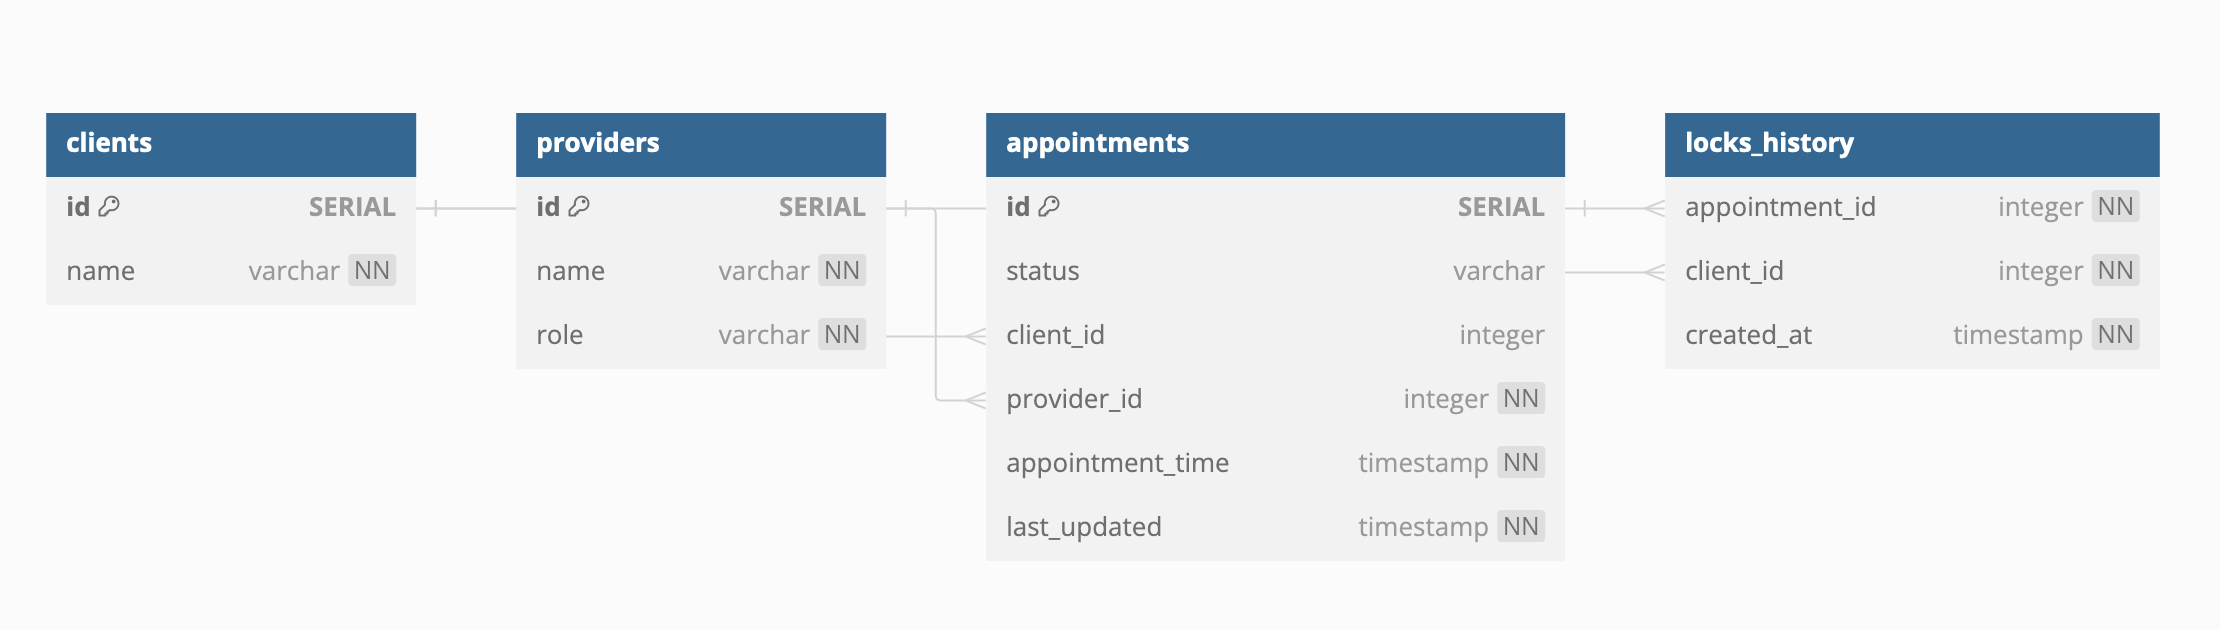
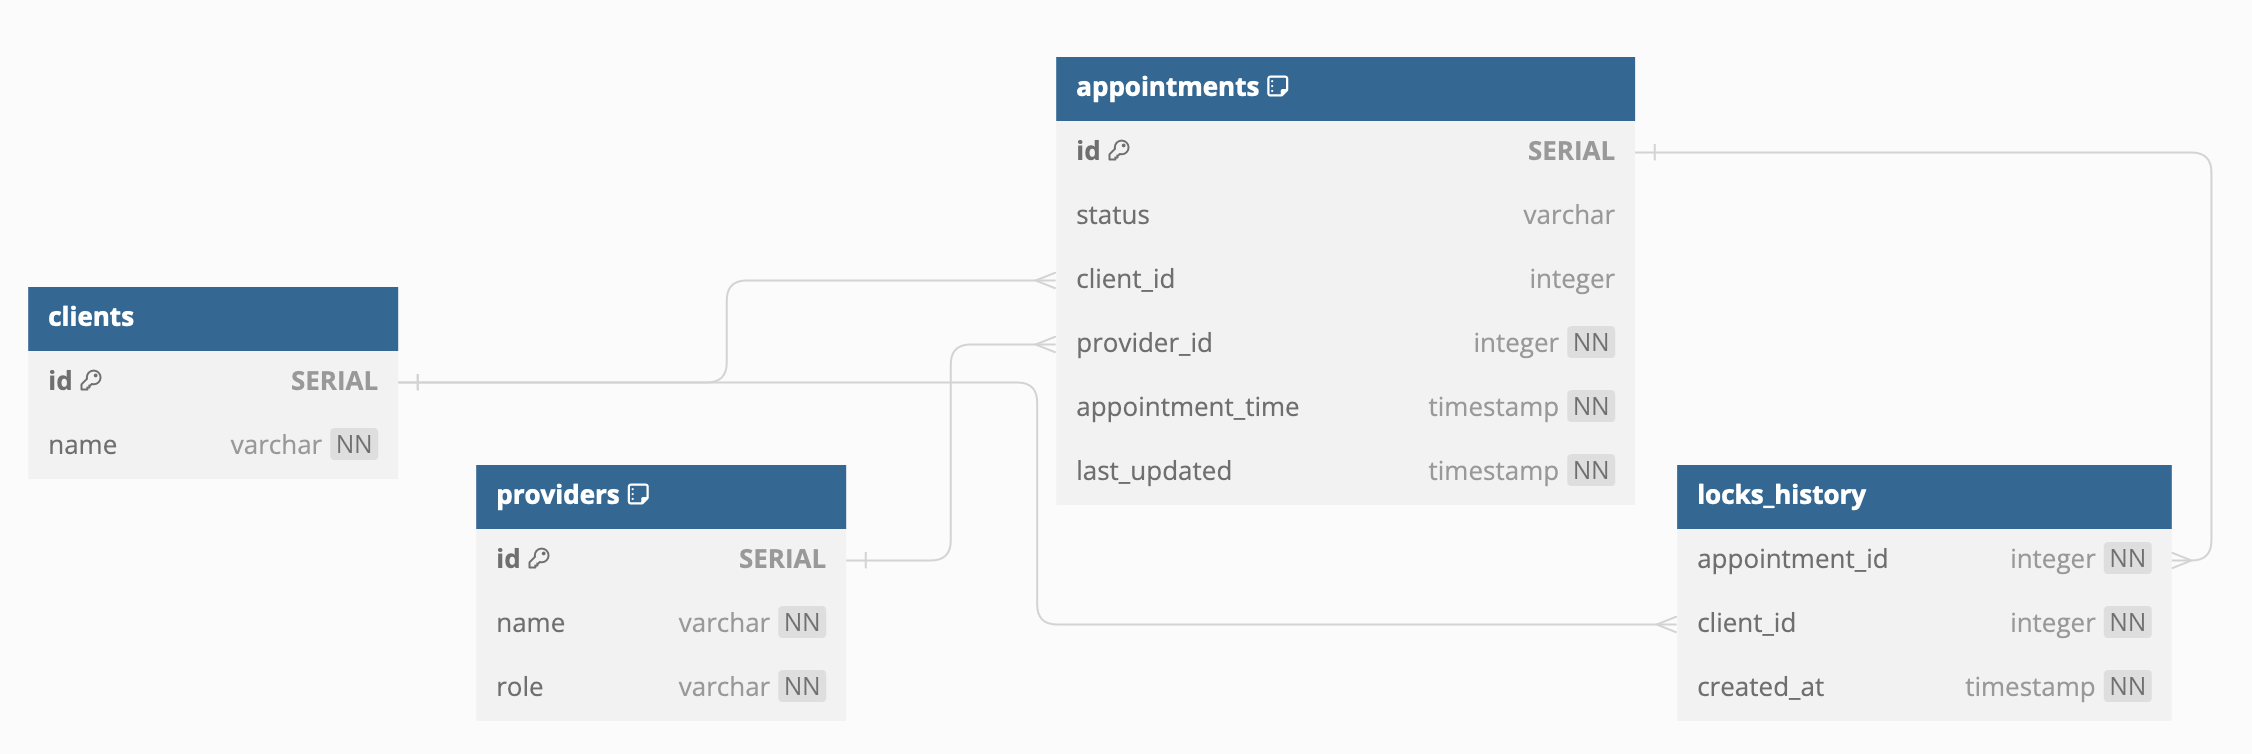
Update schema screenshot and border to pictures

diff --git a/README.md b/README.md
@@ -2,10 +2,6 @@
 
 Submitted by: Dave Lindqvist
 
-## Database Schema
-
-![Reservation database schema](assets/schema.png)
-
 ## Requirements
 To run this repository, you will need [Docker Desktop](https://docs.docker.com/compose/install/):
 
@@ -35,7 +31,13 @@ Operating System: The setup creating this repo was with a  macOS (Sonoma 14.5)
     - Password = `password`
 5. You'll then find the tables through `Database > reservations > Schemas > public >  Tables` as seen below
 
-![PG Admin](assets/pgadmin.png)
+<img src= "assets/pgadmin.png" alt="PG Admin" style="border: 2px solid grey;" width=50%>
+
+
+## Database schema - made with [DBDiagram.io](https://dbdiagram.io/)
+
+<img src= "assets/schema.png" alt="Reservation database schema" style="border: 2px solid grey;">
+
 
 ## Objectives
 
@@ -52,13 +54,11 @@ Operating System: The setup creating this repo was with a  macOS (Sonoma 14.5)
 
 |  HTTP Request   | Method | Description | Body Example |
 | :--: | :--: | :--: | :--: | 
-| `/appointments/{clientId}` | GET | Confirms client of their reservation | N/A|
-| `/providers/{providerId}/appointments` | GET | Client retrieves available provider slots | N/A |
-| `/providers/{providerId}/appointments` | POST | Submit provider appointments in 15-minute intervals | <pre lang="json"> {<br>"providerId": 1,<br>"date": "2024-08-13",<br>"startTime": "08:00:00", <br>"endTime": "15:00:00" <br>} </pre> |
-| `/clients/{clientId}/appointments/{appointmentId}` | GET | Views a specific appointment which will lock appointment record in database (not technically idempotent) | N/A |
-| `/clients/{clientId}/appointments/{appointmentId}` | PATCH | Reserves appointment after viewing | N/A |
-
-
+| `/appointments/{clientId}` | `GET` | Confirms client of their reservation | N/A|
+| `/providers/{providerId}/appointments` | `GET` | Client retrieves available provider slots | N/A |
+| `/providers/{providerId}/appointments` | `POST` | Submit provider appointments in 15-minute intervals | <pre lang="json"> {<br>"providerId": 1,<br>"date": "2024-08-13",<br>"startTime": "08:00:00", <br>"endTime": "15:00:00" <br>} </pre> |
+| `/clients/{clientId}/appointments/{appointmentId}` | `GET` | Views a specific appointment which will lock appointment record in database (not technically idempotent) | N/A |
+| `/clients/{clientId}/appointments/{appointmentId}` | `PATCH` | Reserves appointment after viewing | N/A |
 
 ## Notes and thoughts
 
@@ -72,7 +72,7 @@ One limitiation I found with PG_Cron is its granularity. The lowest unit of time
 
 Below is a screenshot of what you may see while testing this app
 
-![](assets/cronjob.png)
+<img src= "assets/cronjob.png" alt="CRON job in postgres database" style="border: 2px solid grey;">
 
 Additionally, I decided to go in the route of database seeding via `init.sql` as I found it easier to have it within this Docker setup.
 
@@ -83,7 +83,7 @@ I have PG Admin for the reviewers convenience. I thought this was going to help 
 I considered working with a dependency that would help convert timezones in the case that a provider and client are in different timezones. Once I started working with the backend, I felt it wasn't a big priority for this assessment. However, it would be if this was for production.
 
 ## Stretch Goals
-- Redis &rarr; Distributed lock with TTL (Time To Live) without using postgres/pg_cron
+- Redis &rarr; Distributed lock with TTL (Time To Live) without using pg_cron
   - Scenario where appointment slot is being looked at. Locks unique identifier of appointment slot with a predefined TTL. If client completes the booking, then database is updated to "booked" and lock is released upon TTL. If TTL expires without booking, Redis releases lock and the appointment slot becomes available once again.
 - Authentication / Authorization
   - `hasura` headers
